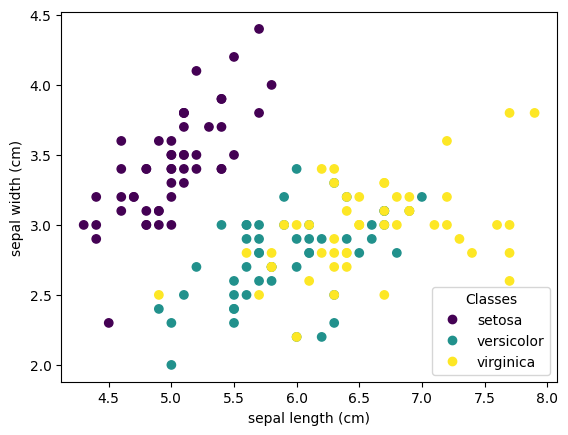
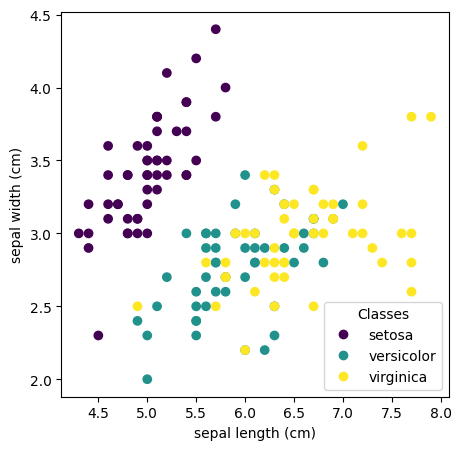
Built site for gh-pages

diff --git a/notebooks/00-01-FFN-Classification-Iris.html b/notebooks/00-01-FFN-Classification-Iris.html
@@ -238,15 +238,17 @@ pre > code.sourceCode > span > a:first-child::before { text-decoration: underlin
 </header>
 
 
-<p>Based on</p>
-<p>https://www.kaggle.com/code/mohitchaitanya/simple-iris-dataset-classification-using-pytorch https://github.com/mattsinbot/PyTorch-for-Iris-Dataset https://github.com/yangzhangalmo/pytorch-iris/blob/master/main.py</p>
-<div id="cell-1" class="cell" data-execution_count="1">
+<p>A notebook to apply an FFN (Feed Forward Neural Network) to classify the flower species type. We will use the the famous Iris dataset (which is now the equivalent of the hellow world dataset in the Data Science World)</p>
+<p>Based on - <a href="https://www.kaggle.com/code/mohitchaitanya/simple-iris-dataset-classification-using-pytorch">Kaggle Notebook for Iris Classiifcation</a> - <a href="https://github.com/mattsinbot/PyTorch-for-Iris-Dataset">PyTorch for Iris Dataset</a> - <a href="https://github.com/yangzhangalmo/pytorch-iris/blob/master/main.py">Iris Classification</a></p>
+<p><strong>Load, Visualize, Summarise Data</strong></p>
+<p>sklearn comes with Iris dataset. We will load it, and do some basic visualization. It is always a good idea to “look” at the data before (blindly) running any models.</p>
+<div id="cell-2" class="cell" data-execution_count="29">
 <div class="sourceCode cell-code" id="cb1"><pre class="sourceCode python code-with-copy"><code class="sourceCode python"><span id="cb1-1"><a href="#cb1-1" aria-hidden="true" tabindex="-1"></a><span class="im">from</span> sklearn.datasets <span class="im">import</span> load_iris</span>
 <span id="cb1-2"><a href="#cb1-2" aria-hidden="true" tabindex="-1"></a>iris <span class="op">=</span> load_iris()</span>
 <span id="cb1-3"><a href="#cb1-3" aria-hidden="true" tabindex="-1"></a></span>
 <span id="cb1-4"><a href="#cb1-4" aria-hidden="true" tabindex="-1"></a><span class="im">import</span> matplotlib.pyplot <span class="im">as</span> plt</span>
 <span id="cb1-5"><a href="#cb1-5" aria-hidden="true" tabindex="-1"></a></span>
-<span id="cb1-6"><a href="#cb1-6" aria-hidden="true" tabindex="-1"></a>_, ax <span class="op">=</span> plt.subplots()</span>
+<span id="cb1-6"><a href="#cb1-6" aria-hidden="true" tabindex="-1"></a>_, ax <span class="op">=</span> plt.subplots(figsize<span class="op">=</span>(<span class="dv">5</span>,<span class="dv">5</span>))</span>
 <span id="cb1-7"><a href="#cb1-7" aria-hidden="true" tabindex="-1"></a>scatter <span class="op">=</span> ax.scatter(iris.data[:, <span class="dv">0</span>], iris.data[:, <span class="dv">1</span>], c<span class="op">=</span>iris.target)</span>
 <span id="cb1-8"><a href="#cb1-8" aria-hidden="true" tabindex="-1"></a>ax.<span class="bu">set</span>(xlabel<span class="op">=</span>iris.feature_names[<span class="dv">0</span>], ylabel<span class="op">=</span>iris.feature_names[<span class="dv">1</span>])</span>
 <span id="cb1-9"><a href="#cb1-9" aria-hidden="true" tabindex="-1"></a>_ <span class="op">=</span> ax.legend(</span>
@@ -260,7 +262,9 @@ pre > code.sourceCode > span > a:first-child::before { text-decoration: underlin
 </div>
 </div>
 </div>
-<div id="cell-2" class="cell" data-execution_count="2">
+<p>We see that, 1. there are four features, and it is a three class classification problem 2. Using two features (<em>sepal length</em>, and <em>sepal width</em>), it is clear that, a perceptron will not be able separate _versicolor from <em>virginica</em> (data is not linearly separable) class. 3. But setosa can be separated from the remaining two.</p>
+<p>Let us look at the basic descriptions of the data.</p>
+<div id="cell-4" class="cell" data-execution_count="2">
 <div class="sourceCode cell-code" id="cb2"><pre class="sourceCode python code-with-copy"><code class="sourceCode python"><span id="cb2-1"><a href="#cb2-1" aria-hidden="true" tabindex="-1"></a></span>
 <span id="cb2-2"><a href="#cb2-2" aria-hidden="true" tabindex="-1"></a><span class="bu">print</span>(<span class="st">'feature name'</span>,iris.feature_names)</span>
 <span id="cb2-3"><a href="#cb2-3" aria-hidden="true" tabindex="-1"></a><span class="bu">print</span>(<span class="st">'features type of data'</span>,<span class="bu">type</span>(iris.data))</span>
@@ -277,7 +281,7 @@ target type of data &lt;class 'numpy.ndarray'&gt;
 target shape (150,)</code></pre>
 </div>
 </div>
-<div id="cell-3" class="cell" data-execution_count="3">
+<div id="cell-5" class="cell" data-execution_count="3">
 <div class="sourceCode cell-code" id="cb4"><pre class="sourceCode python code-with-copy"><code class="sourceCode python"><span id="cb4-1"><a href="#cb4-1" aria-hidden="true" tabindex="-1"></a><span class="bu">print</span>(<span class="st">'target labels'</span>,iris.target)</span></code><button title="Copy to Clipboard" class="code-copy-button"><i class="bi"></i></button></pre></div>
 <div class="cell-output cell-output-stdout">
 <pre><code>target labels [0 0 0 0 0 0 0 0 0 0 0 0 0 0 0 0 0 0 0 0 0 0 0 0 0 0 0 0 0 0 0 0 0 0 0 0 0
@@ -287,7 +291,15 @@ target shape (150,)</code></pre>
  2 2]</code></pre>
 </div>
 </div>
-<div id="cell-4" class="cell" data-execution_count="4">
+<p>Ha. In the original dataset, the data is organized by class. If we naively prepare the mini batches (sequentially), model will only see data corresponding to only one class. This will be pretty problematic to get proper gradient signals. We should shuffle the data s.t diversity in the mini batches is maintained.</p>
+<p><strong>A homework exercise</strong> :)</p>
+<p>Imagine you split the data into two batches. One containing only say class 0, and other contains only class 1. During training, the model sees these two batches cyclically. Will the model ever converge.</p>
+<ol type="1">
+<li>Will it converge when the data is linearly separable?</li>
+<li>Will it converge when the data is not linearly separable?</li>
+<li>Does having a balanced class representation in every mini batch helps? Which way does it?</li>
+</ol>
+<div id="cell-7" class="cell" data-execution_count="4">
 <div class="sourceCode cell-code" id="cb6"><pre class="sourceCode python code-with-copy"><code class="sourceCode python"><span id="cb6-1"><a href="#cb6-1" aria-hidden="true" tabindex="-1"></a><span class="im">from</span> datasets <span class="im">import</span> Dataset</span>
 <span id="cb6-2"><a href="#cb6-2" aria-hidden="true" tabindex="-1"></a><span class="im">import</span> pandas <span class="im">as</span> pd</span>
 <span id="cb6-3"><a href="#cb6-3" aria-hidden="true" tabindex="-1"></a>df <span class="op">=</span> pd.read_csv(<span class="st">"hf://datasets/scikit-learn/iris/Iris.csv"</span>)</span>
@@ -361,13 +373,13 @@ target shape (150,)</code></pre>
 </div>
 </div>
 </div>
-<div id="cell-5" class="cell" data-execution_count="5">
+<div id="cell-8" class="cell" data-execution_count="5">
 <div class="sourceCode cell-code" id="cb7"><pre class="sourceCode python code-with-copy"><code class="sourceCode python"><span id="cb7-1"><a href="#cb7-1" aria-hidden="true" tabindex="-1"></a>df[<span class="st">'Species'</span>].unique()</span></code><button title="Copy to Clipboard" class="code-copy-button"><i class="bi"></i></button></pre></div>
 <div class="cell-output cell-output-display" data-execution_count="5">
 <pre><code>array(['Iris-setosa', 'Iris-versicolor', 'Iris-virginica'], dtype=object)</code></pre>
 </div>
 </div>
-<div id="cell-6" class="cell" data-execution_count="6">
+<div id="cell-9" class="cell" data-execution_count="6">
 <div class="sourceCode cell-code" id="cb9"><pre class="sourceCode python code-with-copy"><code class="sourceCode python"><span id="cb9-1"><a href="#cb9-1" aria-hidden="true" tabindex="-1"></a><span class="co"># transform species to numerics</span></span>
 <span id="cb9-2"><a href="#cb9-2" aria-hidden="true" tabindex="-1"></a>df.loc[df.Species<span class="op">==</span><span class="st">'Iris-setosa'</span>, <span class="st">'Target'</span>] <span class="op">=</span> <span class="dv">0</span></span>
 <span id="cb9-3"><a href="#cb9-3" aria-hidden="true" tabindex="-1"></a>df.loc[df.Species<span class="op">==</span><span class="st">'Iris-versicolor'</span>, <span class="st">'Target'</span>] <span class="op">=</span> <span class="dv">1</span></span>
@@ -451,7 +463,7 @@ target shape (150,)</code></pre>
 </div>
 </div>
 </div>
-<div id="cell-7" class="cell" data-execution_count="7">
+<div id="cell-10" class="cell" data-execution_count="7">
 <div class="sourceCode cell-code" id="cb11"><pre class="sourceCode python code-with-copy"><code class="sourceCode python"><span id="cb11-1"><a href="#cb11-1" aria-hidden="true" tabindex="-1"></a>df.drop([<span class="st">'Id'</span>],axis<span class="op">=</span><span class="dv">1</span>,inplace<span class="op">=</span><span class="va">True</span>)</span>
 <span id="cb11-2"><a href="#cb11-2" aria-hidden="true" tabindex="-1"></a>df.head()</span></code><button title="Copy to Clipboard" class="code-copy-button"><i class="bi"></i></button></pre></div>
 <div class="cell-output cell-output-display" data-execution_count="7">
@@ -522,7 +534,7 @@ target shape (150,)</code></pre>
 </div>
 </div>
 </div>
-<div id="cell-8" class="cell" data-execution_count="8">
+<div id="cell-11" class="cell" data-execution_count="8">
 <div class="sourceCode cell-code" id="cb12"><pre class="sourceCode python code-with-copy"><code class="sourceCode python"><span id="cb12-1"><a href="#cb12-1" aria-hidden="true" tabindex="-1"></a><span class="im">import</span> numpy <span class="im">as</span> np</span>
 <span id="cb12-2"><a href="#cb12-2" aria-hidden="true" tabindex="-1"></a><span class="im">from</span> sklearn.model_selection <span class="im">import</span> train_test_split</span>
 <span id="cb12-3"><a href="#cb12-3" aria-hidden="true" tabindex="-1"></a></span>
@@ -530,7 +542,7 @@ target shape (150,)</code></pre>
 <span id="cb12-5"><a href="#cb12-5" aria-hidden="true" tabindex="-1"></a>y <span class="op">=</span> df.Target.values</span>
 <span id="cb12-6"><a href="#cb12-6" aria-hidden="true" tabindex="-1"></a>X_train, X_test, y_train, y_test <span class="op">=</span> train_test_split(X,y, test_size<span class="op">=</span><span class="fl">0.8</span>)</span></code><button title="Copy to Clipboard" class="code-copy-button"><i class="bi"></i></button></pre></div>
 </div>
-<div id="cell-9" class="cell" data-execution_count="9">
+<div id="cell-12" class="cell" data-execution_count="9">
 <div class="sourceCode cell-code" id="cb13"><pre class="sourceCode python code-with-copy"><code class="sourceCode python"><span id="cb13-1"><a href="#cb13-1" aria-hidden="true" tabindex="-1"></a><span class="co"># check that data is shuffled</span></span>
 <span id="cb13-2"><a href="#cb13-2" aria-hidden="true" tabindex="-1"></a><span class="bu">print</span>(y_train)</span></code><button title="Copy to Clipboard" class="code-copy-button"><i class="bi"></i></button></pre></div>
 <div class="cell-output cell-output-stdout">
@@ -538,13 +550,13 @@ target shape (150,)</code></pre>
  1. 1. 1. 0. 0. 1.]</code></pre>
 </div>
 </div>
-<div id="cell-10" class="cell" data-execution_count="10">
+<div id="cell-13" class="cell" data-execution_count="10">
 <div class="sourceCode cell-code" id="cb15"><pre class="sourceCode python code-with-copy"><code class="sourceCode python"><span id="cb15-1"><a href="#cb15-1" aria-hidden="true" tabindex="-1"></a><span class="im">from</span> sklearn.preprocessing <span class="im">import</span> StandardScaler</span>
 <span id="cb15-2"><a href="#cb15-2" aria-hidden="true" tabindex="-1"></a>scaler <span class="op">=</span> StandardScaler()</span>
 <span id="cb15-3"><a href="#cb15-3" aria-hidden="true" tabindex="-1"></a>X_train <span class="op">=</span> scaler.fit_transform(X_train)</span>
 <span id="cb15-4"><a href="#cb15-4" aria-hidden="true" tabindex="-1"></a>X_test <span class="op">=</span> scaler.transform(X_test)</span></code><button title="Copy to Clipboard" class="code-copy-button"><i class="bi"></i></button></pre></div>
 </div>
-<div id="cell-11" class="cell" data-execution_count="11">
+<div id="cell-14" class="cell" data-execution_count="11">
 <div class="sourceCode cell-code" id="cb16"><pre class="sourceCode python code-with-copy"><code class="sourceCode python"><span id="cb16-1"><a href="#cb16-1" aria-hidden="true" tabindex="-1"></a><span class="im">import</span> pandas <span class="im">as</span> pd</span>
 <span id="cb16-2"><a href="#cb16-2" aria-hidden="true" tabindex="-1"></a><span class="im">from</span> sklearn.model_selection <span class="im">import</span> train_test_split</span>
 <span id="cb16-3"><a href="#cb16-3" aria-hidden="true" tabindex="-1"></a><span class="im">from</span> sklearn.metrics <span class="im">import</span> accuracy_score, precision_score, recall_score</span>
@@ -554,13 +566,13 @@ target shape (150,)</code></pre>
 <span id="cb16-7"><a href="#cb16-7" aria-hidden="true" tabindex="-1"></a><span class="im">import</span> torch.nn.functional <span class="im">as</span> F</span>
 <span id="cb16-8"><a href="#cb16-8" aria-hidden="true" tabindex="-1"></a><span class="im">from</span> torch.autograd <span class="im">import</span> Variable</span></code><button title="Copy to Clipboard" class="code-copy-button"><i class="bi"></i></button></pre></div>
 </div>
-<div id="cell-12" class="cell" data-execution_count="12">
+<div id="cell-15" class="cell" data-execution_count="12">
 <div class="sourceCode cell-code" id="cb17"><pre class="sourceCode python code-with-copy"><code class="sourceCode python"><span id="cb17-1"><a href="#cb17-1" aria-hidden="true" tabindex="-1"></a>X_train <span class="op">=</span> torch.FloatTensor(X_train)</span>
 <span id="cb17-2"><a href="#cb17-2" aria-hidden="true" tabindex="-1"></a>X_test <span class="op">=</span> torch.FloatTensor(X_test)</span>
 <span id="cb17-3"><a href="#cb17-3" aria-hidden="true" tabindex="-1"></a>y_train <span class="op">=</span> torch.LongTensor(y_train)</span>
 <span id="cb17-4"><a href="#cb17-4" aria-hidden="true" tabindex="-1"></a>y_test <span class="op">=</span> torch.LongTensor(y_test)</span></code><button title="Copy to Clipboard" class="code-copy-button"><i class="bi"></i></button></pre></div>
 </div>
-<div id="cell-13" class="cell" data-execution_count="13">
+<div id="cell-16" class="cell" data-execution_count="13">
 <div class="sourceCode cell-code" id="cb18"><pre class="sourceCode python code-with-copy"><code class="sourceCode python"><span id="cb18-1"><a href="#cb18-1" aria-hidden="true" tabindex="-1"></a><span class="kw">class</span> MLP(nn.Module):</span>
 <span id="cb18-2"><a href="#cb18-2" aria-hidden="true" tabindex="-1"></a>    <span class="co"># define nn</span></span>
 <span id="cb18-3"><a href="#cb18-3" aria-hidden="true" tabindex="-1"></a>    <span class="kw">def</span> <span class="fu">__init__</span>(<span class="va">self</span>, input_dim<span class="op">=</span><span class="dv">4</span>, output_dim<span class="op">=</span><span class="dv">3</span>, hidden_dim <span class="op">=</span> [<span class="dv">128</span>,<span class="dv">64</span>]):</span>
@@ -576,18 +588,18 @@ target shape (150,)</code></pre>
 <span id="cb18-13"><a href="#cb18-13" aria-hidden="true" tabindex="-1"></a>        X <span class="op">=</span> <span class="va">self</span>.out(X)</span>
 <span id="cb18-14"><a href="#cb18-14" aria-hidden="true" tabindex="-1"></a>        <span class="cf">return</span> X</span></code><button title="Copy to Clipboard" class="code-copy-button"><i class="bi"></i></button></pre></div>
 </div>
-<div id="cell-14" class="cell" data-execution_count="14">
+<div id="cell-17" class="cell" data-execution_count="14">
 <div class="sourceCode cell-code" id="cb19"><pre class="sourceCode python code-with-copy"><code class="sourceCode python"><span id="cb19-1"><a href="#cb19-1" aria-hidden="true" tabindex="-1"></a>input_dim <span class="op">=</span> <span class="dv">4</span></span>
 <span id="cb19-2"><a href="#cb19-2" aria-hidden="true" tabindex="-1"></a>output_dim <span class="op">=</span> <span class="dv">3</span></span>
 <span id="cb19-3"><a href="#cb19-3" aria-hidden="true" tabindex="-1"></a>hidden_dim <span class="op">=</span> [<span class="dv">64</span>, <span class="dv">64</span>]</span>
 <span id="cb19-4"><a href="#cb19-4" aria-hidden="true" tabindex="-1"></a>model <span class="op">=</span> MLP(input_dim<span class="op">=</span>input_dim, output_dim<span class="op">=</span>output_dim, hidden_dim<span class="op">=</span>hidden_dim)</span></code><button title="Copy to Clipboard" class="code-copy-button"><i class="bi"></i></button></pre></div>
 </div>
-<div id="cell-15" class="cell" data-execution_count="15">
+<div id="cell-18" class="cell" data-execution_count="15">
 <div class="sourceCode cell-code" id="cb20"><pre class="sourceCode python code-with-copy"><code class="sourceCode python"><span id="cb20-1"><a href="#cb20-1" aria-hidden="true" tabindex="-1"></a>learning_rate <span class="op">=</span> <span class="fl">0.01</span></span>
 <span id="cb20-2"><a href="#cb20-2" aria-hidden="true" tabindex="-1"></a>criterion <span class="op">=</span> nn.CrossEntropyLoss()</span>
 <span id="cb20-3"><a href="#cb20-3" aria-hidden="true" tabindex="-1"></a>optimizer <span class="op">=</span> torch.optim.Adam(model.parameters(),lr<span class="op">=</span>learning_rate)</span></code><button title="Copy to Clipboard" class="code-copy-button"><i class="bi"></i></button></pre></div>
 </div>
-<div id="cell-16" class="cell" data-execution_count="16">
+<div id="cell-19" class="cell" data-execution_count="16">
 <div class="sourceCode cell-code" id="cb21"><pre class="sourceCode python code-with-copy"><code class="sourceCode python"><span id="cb21-1"><a href="#cb21-1" aria-hidden="true" tabindex="-1"></a><span class="kw">def</span> train_network(model,optimizer,criterion,X_train,y_train,X_test,y_test,num_epochs,train_losses,test_losses):</span>
 <span id="cb21-2"><a href="#cb21-2" aria-hidden="true" tabindex="-1"></a>    <span class="cf">for</span> epoch <span class="kw">in</span> <span class="bu">range</span>(num_epochs):</span>
 <span id="cb21-3"><a href="#cb21-3" aria-hidden="true" tabindex="-1"></a>        <span class="co">#clear out the gradients from the last step loss.backward()</span></span>
@@ -615,12 +627,12 @@ target shape (150,)</code></pre>
 <span id="cb21-25"><a href="#cb21-25" aria-hidden="true" tabindex="-1"></a>        <span class="cf">if</span> (epoch <span class="op">+</span> <span class="dv">1</span>) <span class="op">%</span> <span class="dv">50</span> <span class="op">==</span> <span class="dv">0</span>:</span>
 <span id="cb21-26"><a href="#cb21-26" aria-hidden="true" tabindex="-1"></a>            <span class="bu">print</span>(<span class="ss">f"Epoch </span><span class="sc">{</span>epoch<span class="op">+</span><span class="dv">1</span><span class="sc">}</span><span class="ss">/</span><span class="sc">{</span>num_epochs<span class="sc">}</span><span class="ss">, Train Loss: </span><span class="sc">{</span>loss_train<span class="sc">.</span>item()<span class="sc">:.4f}</span><span class="ss">, Test Loss: </span><span class="sc">{</span>loss_test<span class="sc">.</span>item()<span class="sc">:.4f}</span><span class="ss">"</span>)</span></code><button title="Copy to Clipboard" class="code-copy-button"><i class="bi"></i></button></pre></div>
 </div>
-<div id="cell-17" class="cell" data-execution_count="17">
+<div id="cell-20" class="cell" data-execution_count="17">
 <div class="sourceCode cell-code" id="cb22"><pre class="sourceCode python code-with-copy"><code class="sourceCode python"><span id="cb22-1"><a href="#cb22-1" aria-hidden="true" tabindex="-1"></a>num_epochs <span class="op">=</span> <span class="dv">1000</span></span>
 <span id="cb22-2"><a href="#cb22-2" aria-hidden="true" tabindex="-1"></a>train_losses <span class="op">=</span> np.zeros(num_epochs)</span>
 <span id="cb22-3"><a href="#cb22-3" aria-hidden="true" tabindex="-1"></a>test_losses  <span class="op">=</span> np.zeros(num_epochs)</span></code><button title="Copy to Clipboard" class="code-copy-button"><i class="bi"></i></button></pre></div>
 </div>
-<div id="cell-18" class="cell" data-execution_count="18">
+<div id="cell-21" class="cell" data-execution_count="18">
 <div class="sourceCode cell-code" id="cb23"><pre class="sourceCode python code-with-copy"><code class="sourceCode python"><span id="cb23-1"><a href="#cb23-1" aria-hidden="true" tabindex="-1"></a>train_network(model,optimizer,criterion,X_train,y_train,X_test,y_test,num_epochs,train_losses,test_losses)</span></code><button title="Copy to Clipboard" class="code-copy-button"><i class="bi"></i></button></pre></div>
 <div class="cell-output cell-output-stdout">
 <pre><code>Epoch 50/1000, Train Loss: 0.0001, Test Loss: 0.4372
@@ -645,7 +657,7 @@ Epoch 950/1000, Train Loss: 0.0000, Test Loss: 0.3598
 Epoch 1000/1000, Train Loss: 0.0000, Test Loss: 0.3601</code></pre>
 </div>
 </div>
-<div id="cell-19" class="cell" data-execution_count="19">
+<div id="cell-22" class="cell" data-execution_count="19">
 <div class="sourceCode cell-code" id="cb25"><pre class="sourceCode python code-with-copy"><code class="sourceCode python"><span id="cb25-1"><a href="#cb25-1" aria-hidden="true" tabindex="-1"></a>plt.figure(figsize<span class="op">=</span>(<span class="dv">10</span>,<span class="dv">10</span>))</span>
 <span id="cb25-2"><a href="#cb25-2" aria-hidden="true" tabindex="-1"></a>plt.plot(train_losses, label<span class="op">=</span><span class="st">'train loss'</span>)</span>
 <span id="cb25-3"><a href="#cb25-3" aria-hidden="true" tabindex="-1"></a>plt.plot(test_losses, label<span class="op">=</span><span class="st">'test loss'</span>)</span>
@@ -659,14 +671,14 @@ Epoch 1000/1000, Train Loss: 0.0000, Test Loss: 0.3601</code></pre>
 </div>
 </div>
 </div>
-<div id="cell-20" class="cell" data-execution_count="20">
+<div id="cell-23" class="cell" data-execution_count="20">
 <div class="sourceCode cell-code" id="cb26"><pre class="sourceCode python code-with-copy"><code class="sourceCode python"><span id="cb26-1"><a href="#cb26-1" aria-hidden="true" tabindex="-1"></a>predictions_train <span class="op">=</span> []</span>
 <span id="cb26-2"><a href="#cb26-2" aria-hidden="true" tabindex="-1"></a>predictions_test <span class="op">=</span>  []</span>
 <span id="cb26-3"><a href="#cb26-3" aria-hidden="true" tabindex="-1"></a><span class="cf">with</span> torch.no_grad():</span>
 <span id="cb26-4"><a href="#cb26-4" aria-hidden="true" tabindex="-1"></a>    predictions_train <span class="op">=</span> model(X_train)</span>
 <span id="cb26-5"><a href="#cb26-5" aria-hidden="true" tabindex="-1"></a>    predictions_test <span class="op">=</span> model(X_test)</span></code><button title="Copy to Clipboard" class="code-copy-button"><i class="bi"></i></button></pre></div>
 </div>
-<div id="cell-21" class="cell" data-execution_count="21">
+<div id="cell-24" class="cell" data-execution_count="21">
 <div class="sourceCode cell-code" id="cb27"><pre class="sourceCode python code-with-copy"><code class="sourceCode python"><span id="cb27-1"><a href="#cb27-1" aria-hidden="true" tabindex="-1"></a><span class="bu">print</span>(predictions_train.shape)</span>
 <span id="cb27-2"><a href="#cb27-2" aria-hidden="true" tabindex="-1"></a><span class="bu">print</span>(<span class="bu">type</span>(predictions_train))</span>
 <span id="cb27-3"><a href="#cb27-3" aria-hidden="true" tabindex="-1"></a></span>
@@ -679,7 +691,7 @@ torch.Size([30])
 &lt;class 'torch.Tensor'&gt;</code></pre>
 </div>
 </div>
-<div id="cell-22" class="cell" data-execution_count="22">
+<div id="cell-25" class="cell" data-execution_count="22">
 <div class="sourceCode cell-code" id="cb29"><pre class="sourceCode python code-with-copy"><code class="sourceCode python"><span id="cb29-1"><a href="#cb29-1" aria-hidden="true" tabindex="-1"></a><span class="kw">def</span> get_accuracy_multiclass(pred_arr,original_arr):</span>
 <span id="cb29-2"><a href="#cb29-2" aria-hidden="true" tabindex="-1"></a>    <span class="cf">if</span> <span class="bu">len</span>(pred_arr)<span class="op">!=</span><span class="bu">len</span>(original_arr):</span>
 <span id="cb29-3"><a href="#cb29-3" aria-hidden="true" tabindex="-1"></a>        <span class="cf">return</span> <span class="va">False</span></span>
@@ -698,7 +710,7 @@ torch.Size([30])
 <span id="cb29-16"><a href="#cb29-16" aria-hidden="true" tabindex="-1"></a>            count<span class="op">+=</span><span class="dv">1</span></span>
 <span id="cb29-17"><a href="#cb29-17" aria-hidden="true" tabindex="-1"></a>    <span class="cf">return</span> count<span class="op">/</span><span class="bu">len</span>(final_pred)</span></code><button title="Copy to Clipboard" class="code-copy-button"><i class="bi"></i></button></pre></div>
 </div>
-<div id="cell-23" class="cell" data-execution_count="23">
+<div id="cell-26" class="cell" data-execution_count="23">
 <div class="sourceCode cell-code" id="cb30"><pre class="sourceCode python code-with-copy"><code class="sourceCode python"><span id="cb30-1"><a href="#cb30-1" aria-hidden="true" tabindex="-1"></a>train_acc <span class="op">=</span> get_accuracy_multiclass(predictions_train,y_train)</span>
 <span id="cb30-2"><a href="#cb30-2" aria-hidden="true" tabindex="-1"></a>test_acc  <span class="op">=</span> get_accuracy_multiclass(predictions_test,y_test)</span>
 <span id="cb30-3"><a href="#cb30-3" aria-hidden="true" tabindex="-1"></a><span class="bu">print</span>(<span class="ss">f"Training Accuracy: </span><span class="sc">{</span><span class="bu">round</span>(train_acc<span class="op">*</span><span class="dv">100</span>,<span class="dv">3</span>)<span class="sc">}</span><span class="ss">"</span>)</span>
